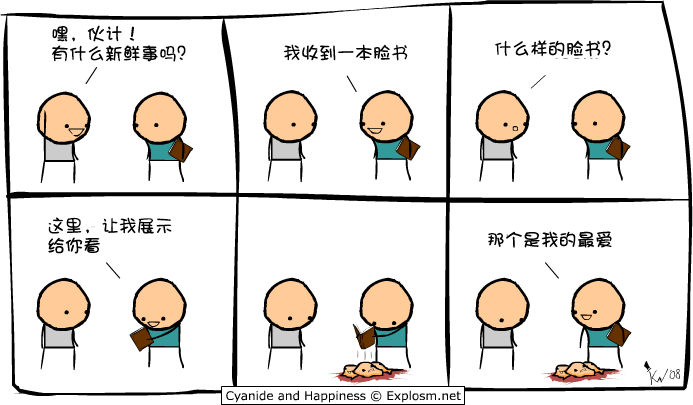
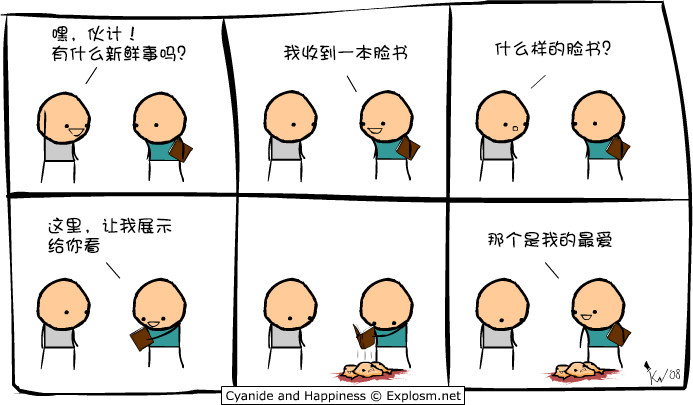
update

diff --git a/content/comics/3621.friends2.zh-cn.md b/content/comics/3621.friends2.zh-cn.md
@@ -1,0 +1,9 @@
+Title: [译][漫]Cyanide & Happiness #3621
+Date: 2014-07-16
+Tags: 漫画, Cyanide & Happiness
+Slug: 3621.friends2.zh-cn
+
+译自：[Cyanide & Happiness #3621 - Explosm.net](http://explosm.net/comics/3621/)
+
+
+![3621.friends2.zh-cn.png](/static/images/comics/3621.friends2.zh-cn.png)
